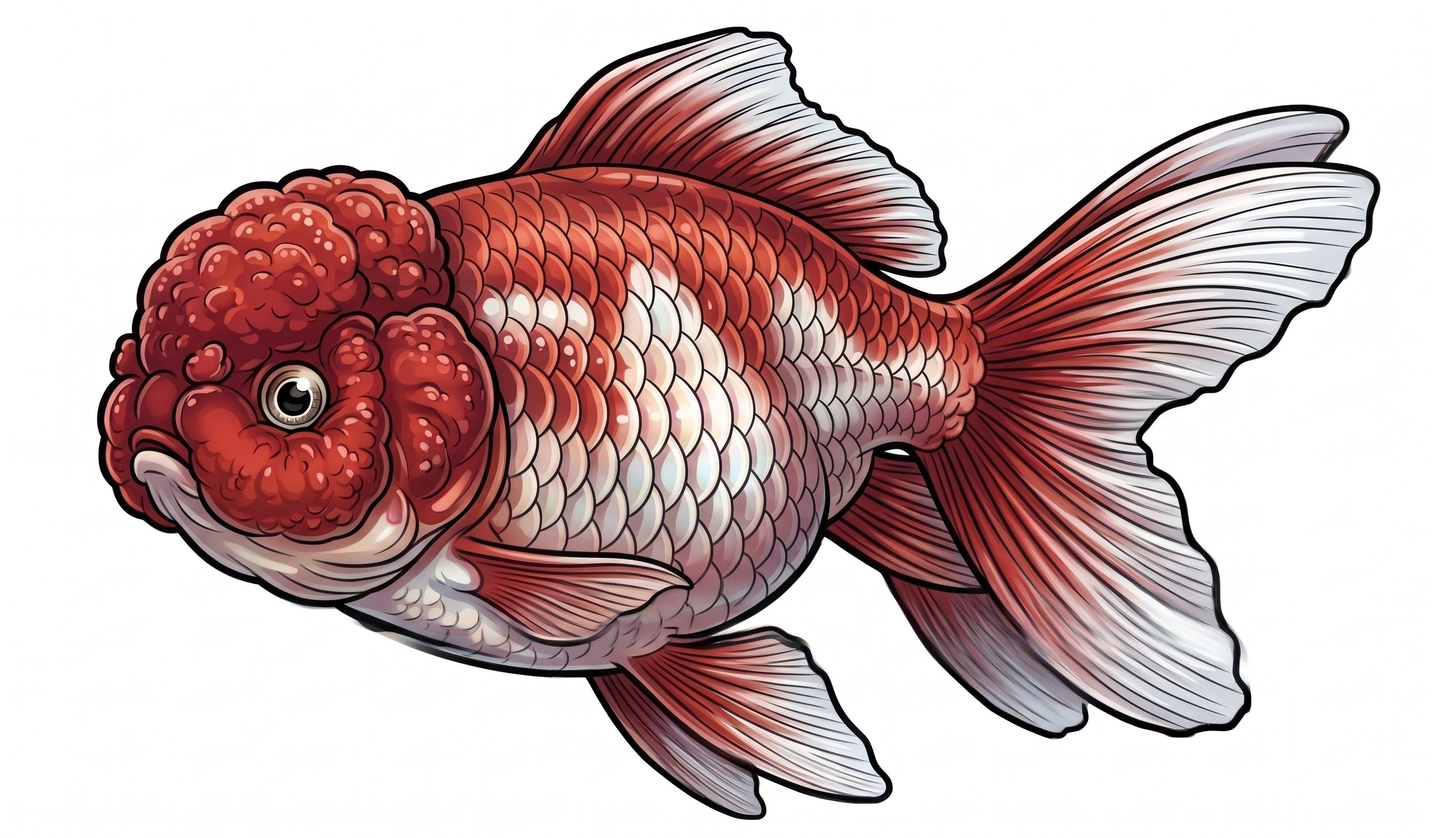
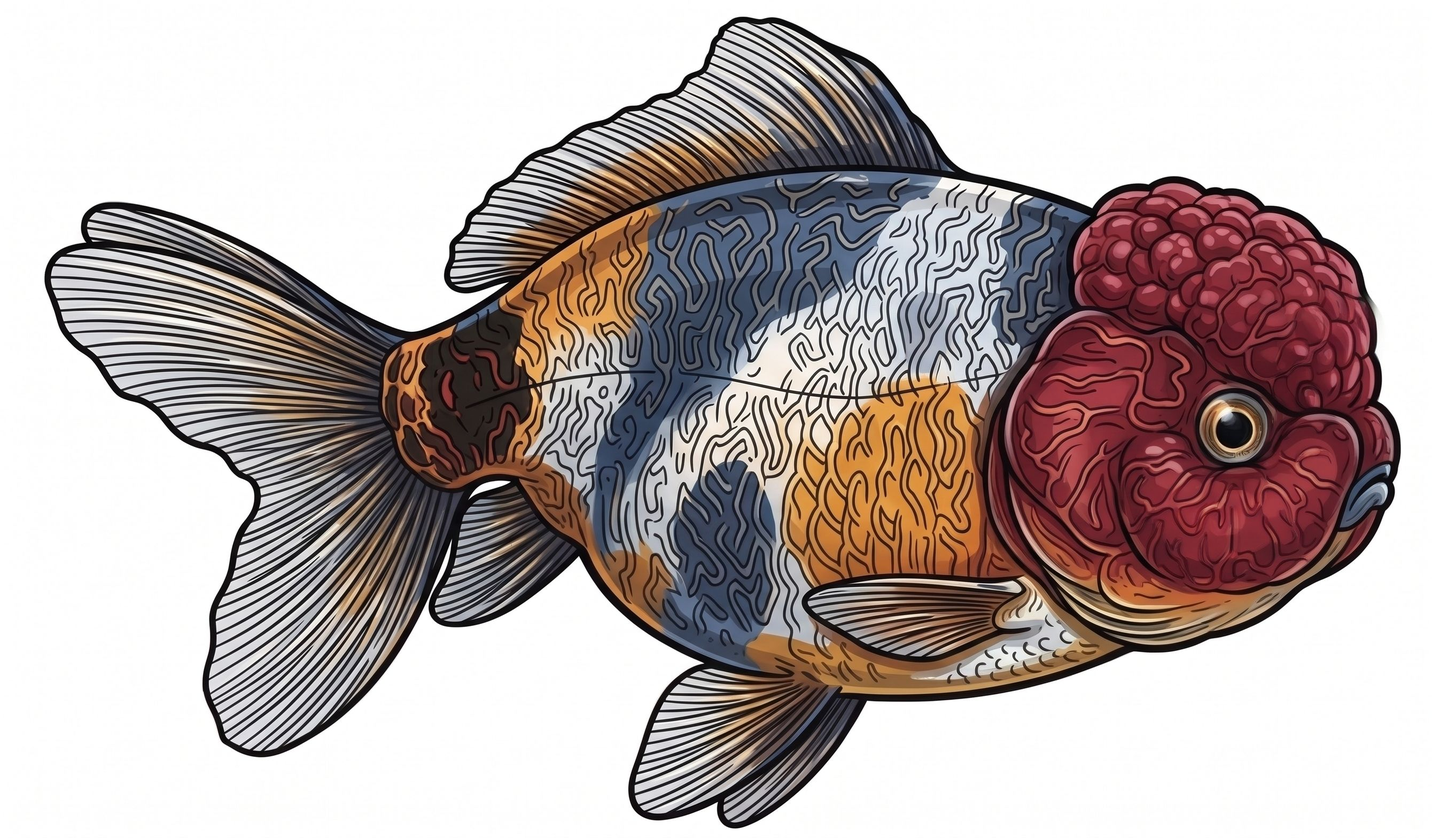
Fix facesLeft for lionhead and redcap goldfish sprites

diff --git a/media/aquarium.js b/media/aquarium.js
@@ -142,10 +142,10 @@
     silverdollar: { sheet: 'silverdollar', fx: 0,    fy: 0, fw: 1,    fh: 1, targetH: 72,  facesLeft: false, tailRatio: 0.20 },
     giantgourami: { sheet: 'giantgourami', fx: 0,    fy: 0, fw: 1,    fh: 1, targetH: 88,  facesLeft: false, tailRatio: 0.21 },
     blackmoor:    { sheet: 'blackmoor',    fx: 0,    fy: 0, fw: 1,    fh: 1, targetH: 44,  facesLeft: true,  tailRatio: 0.25 },
-    lionhead:     { sheet: 'lionhead',     fx: 0,    fy: 0, fw: 1,    fh: 1, targetH: 46,  facesLeft: true,  tailRatio: 0.28 },
+    lionhead:     { sheet: 'lionhead',     fx: 0,    fy: 0, fw: 1,    fh: 1, targetH: 46,  facesLeft: false, tailRatio: 0.28 },
     shubunkin:    { sheet: 'shubukin',     fx: 0,    fy: 0, fw: 1,    fh: 1, targetH: 42,  facesLeft: false, tailRatio: 0.30 },
     calico:       { sheet: 'calico',       fx: 0,    fy: 0, fw: 1,    fh: 1, targetH: 48,  facesLeft: true,  tailRatio: 0.22 },
-    redcap:       { sheet: 'redcap',       fx: 0,    fy: 0, fw: 1,    fh: 1, targetH: 44,  facesLeft: true,  tailRatio: 0.26 },
+    redcap:       { sheet: 'redcap',       fx: 0,    fy: 0, fw: 1,    fh: 1, targetH: 44,  facesLeft: false, tailRatio: 0.26 },
   };
 
   // Color variants per species — CSS filter strings
